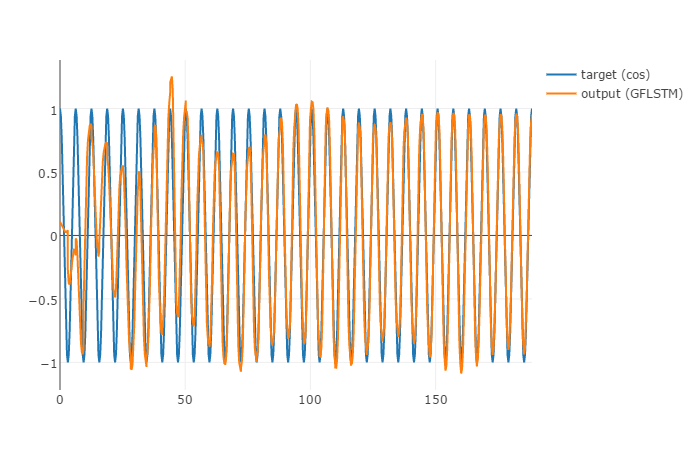
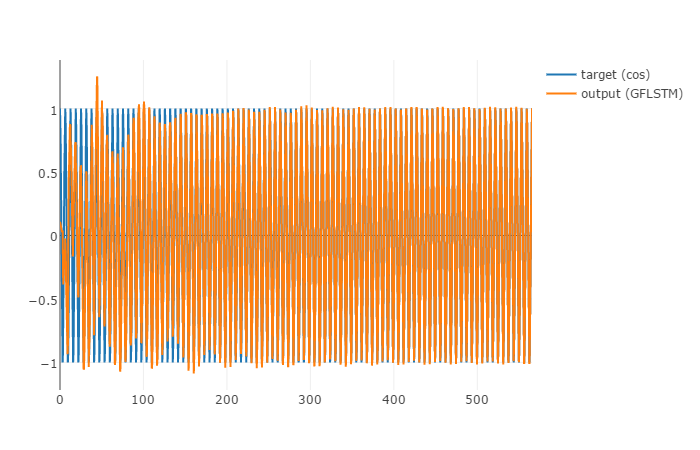
x

diff --git a/examples/RNN_regressor/main.py b/examples/RNN_regressor/main.py
@@ -75,7 +75,7 @@ h_state = None      # for initial hidden state
 # plt.ion()           # continuously plot
 # plt.show()
 win = None
-for step in range(60):
+for step in range(180):
     start, end = step * np.pi, (step+1)*np.pi   # time steps
     # use sin predicts cos
     steps = np.linspace(start, end, 10, dtype=np.float32)
@@ -103,7 +103,7 @@ for step in range(60):
         win = viz.line(
             X = np.column_stack((steps, steps)),
             Y = np.column_stack((y_np.flatten(), prediction.data.numpy().flatten())),
-            opts = dict(legend=['target (cos)','output (LSTM)']),
+            opts = dict(legend=['target (cos)','output (RNN)']),
         )
     else:
         win = viz.line(

diff --git a/examples/RNN_regressor/main_gf.py b/examples/RNN_regressor/main_gf.py
@@ -75,7 +75,7 @@ zero_c = Variable(torch.zeros(2, 1, 32))
 h_state = (zero_h, zero_c)
 
 win = None
-for step in range(60):
+for step in range(180):
     start, end = step * np.pi, (step+1)*np.pi   # time steps
     # use sin predicts cos
     steps = np.linspace(start, end, 10, dtype=np.float32)
